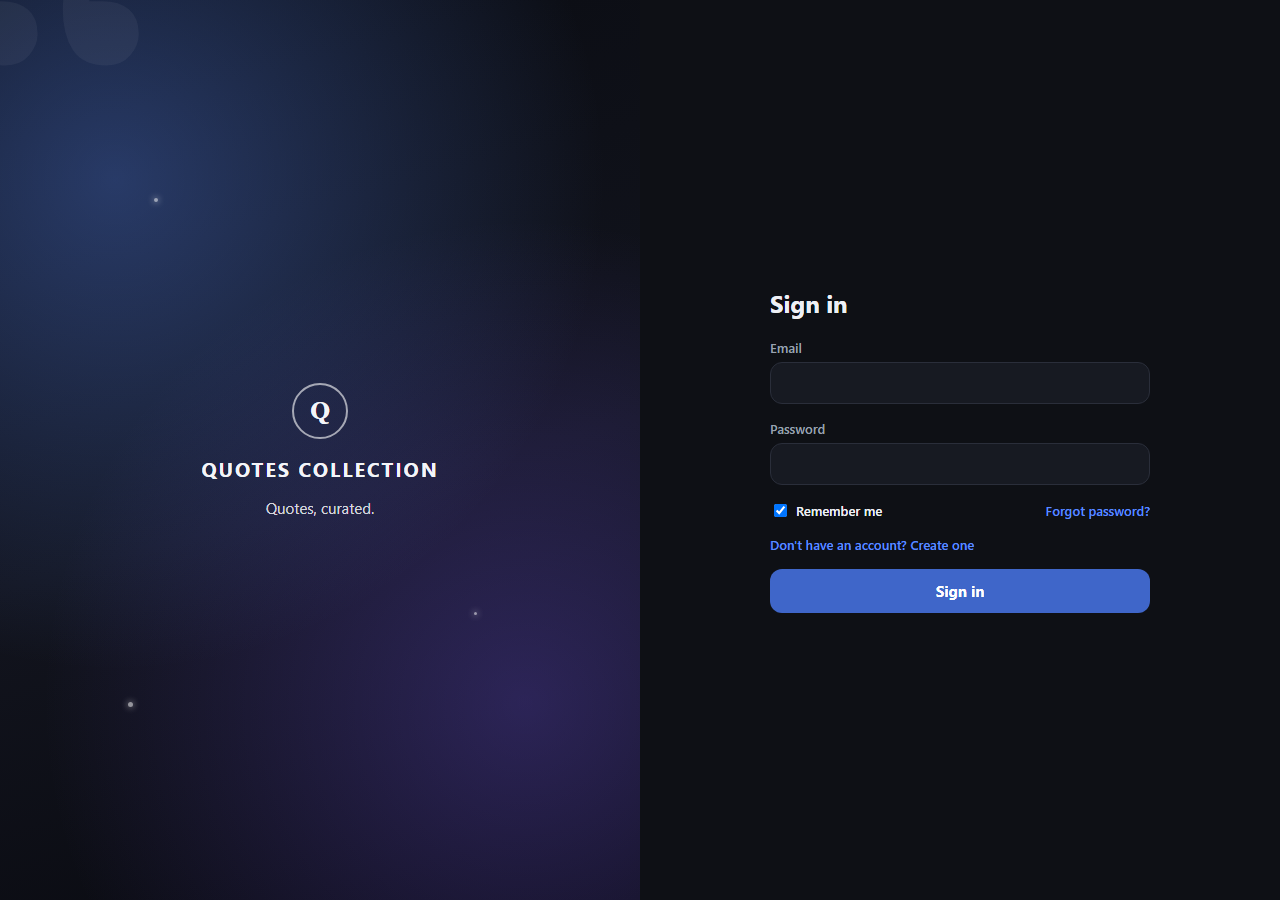
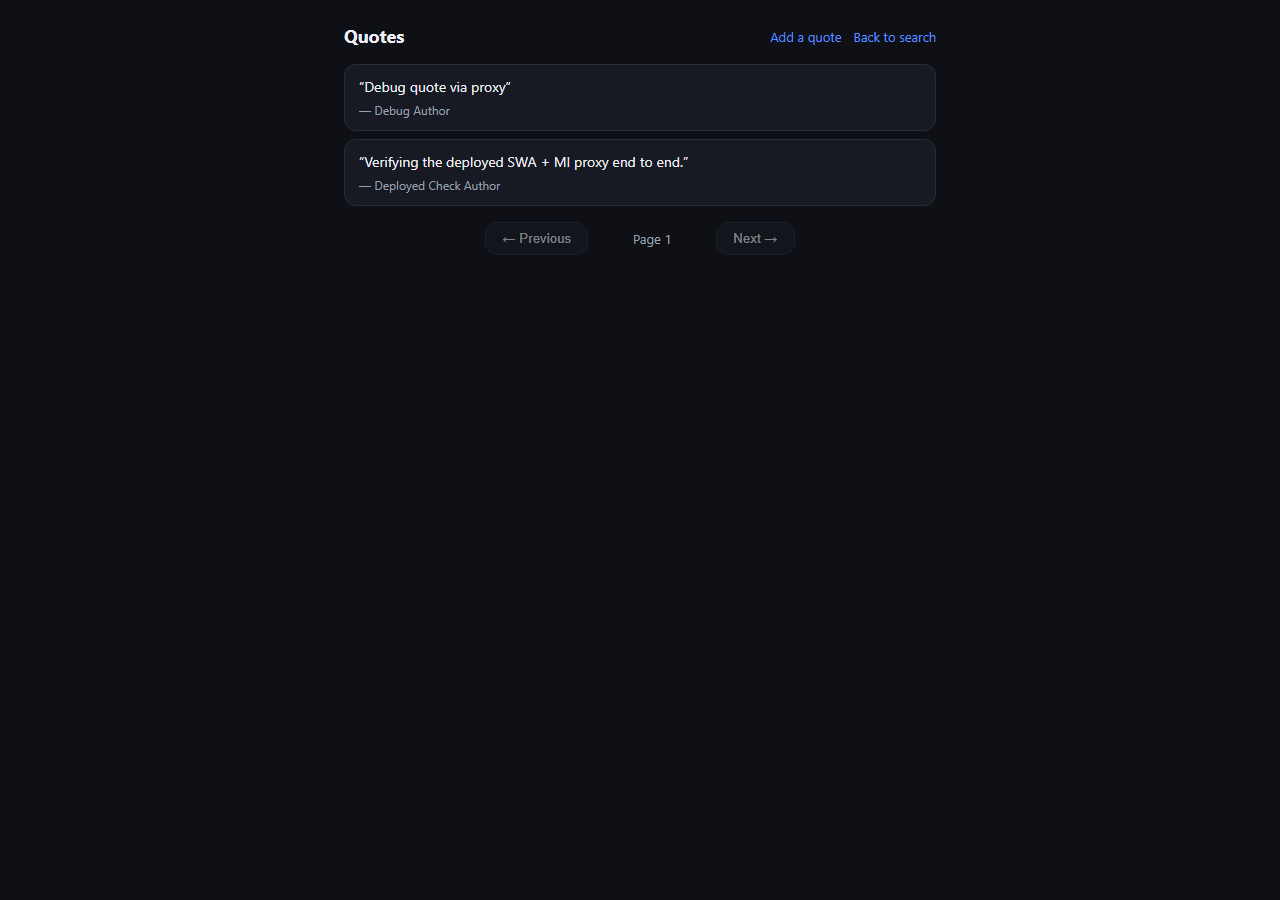
Day 17 Task 1: final deployment verification note
Live URL, architecture, zero-secret MI proof (decoded token claims
matching the Function App's own identity), Lighthouse scores (all four
categories >= 95 after fixing two real SEO gaps the live run found),
the verification checklist actually run against the live deployment,
and the two real bugs + two platform quirks hit along the way.

diff --git a/day-17/quotes-signals-app/DEPLOYMENT.md b/day-17/quotes-signals-app/DEPLOYMENT.md
@@ -1,0 +1,149 @@
+# Day-17 Task 1 — Azure Static Web Apps deployment, verification note
+
+## Live URL
+
+**https://lemon-smoke-0e5e0530f.7.azurestaticapps.net**
+
+No custom domain (per direction — use the default URL). Resource
+`ai-quotes-swa`, resource group `ai-quotes-api`, Free tier, GitHub
+Actions CI/CD from branch `day-17task1`.
+
+## Architecture
+
+```
+Browser → SWA (static Angular app only)
+            │  /api/* rewritten to an absolute origin
+            │  (api-base-url.interceptor.ts, no-op on localhost)
+            ▼
+       ai-quotes-func2  (standalone Azure Function App, Windows
+       Consumption plan, system-assigned managed identity)
+            │
+            │  GET /api/quotes, GET /api/quotes/{id}:
+            │  Authorization: Bearer <real AAD token via
+            │  DefaultAzureCredential(), audience
+            │  api://47f5632f-7592-4f54-b328-cf7b71139f4a>
+            │
+            │  everything else (login/register/create/update/delete):
+            │  forwards the browser's own bearer token unchanged
+            ▼
+       ai-quotes-app  (the real Week-1 API — Day-5/QuotesApi,
+       already deployed to Azure Container Apps before this task)
+```
+
+**Why a standalone Function App instead of SWA's own managed Functions
+API:** SWA's Free tier cannot assign a managed identity to its
+co-located Functions backend (`az staticwebapp identity assign` →
+`SkuCode 'Free' is invalid` — that's Standard-tier-only). A Consumption-
+plan Function App gets a real system-assigned identity for free, so it
+hosts the proxy instead; `api-base-url.interceptor.ts` sends the
+Angular app's `/api/*` calls there.
+
+## Zero secrets, real proof
+
+`GET /api/_debug/entra-token` (verification-only, decoded claims only,
+never the raw token):
+
+```json
+{
+  "iss": "https://sts.windows.net/f774bb68-0575-4cd2-9d4c-3b4e593d1110/",
+  "aud": "api://47f5632f-7592-4f54-b328-cf7b71139f4a",
+  "appid": "04e0412b-28f8-4a5e-8ee7-9cf872d45bba",
+  "oid": "f4dbd25f-291e-4148-8659-74a451e0e51c",
+  "tokenExpiresOn": "2026-08-30T10:42:16.000Z"
+}
+```
+
+- `iss` matches the real tenant (`az account show`).
+- `aud` matches `QuotesApi-1`'s real, pre-existing app registration
+  (confirmed live via `az ad app show` — not invented for this task;
+  the real API's `EntraJwt` auth scheme in
+  `Day-5/QuotesApi/Extentions/InfrastructureExtensions.cs` already
+  trusts this exact audience).
+- `oid` matches `ai-quotes-func2`'s own system-assigned identity
+  `principalId` from `az functionapp identity assign` — i.e. this is
+  provably *this Function App's* managed identity, not a hardcoded
+  value. `az ad sp show` confirmed `appRoleAssignmentRequired: false`
+  on that app registration, so no extra permission grant was even
+  needed for a brand-new identity to get a valid token for it.
+
+No API key, connection string, or client secret exists anywhere in
+`day-17/quotes-signals-app/` or in the Function App's settings.
+
+## Lighthouse (`deploy-verification/lighthouse-report.html`)
+
+Run against the live `/login` route:
+
+| Category | Score |
+|---|---|
+| Performance | 99 |
+| Accessibility | 97 |
+| Best Practices | 100 |
+| SEO | 100 |
+
+All four ≥ 95. SEO started at 82 — fixed two real gaps the live run
+surfaced (not assumed): a missing `<meta name="description">`, and
+`robots.txt` 404-falling-through to the Angular SPA shell (no such file
+existed on disk, so SWA's `navigationFallback` served `index.html`
+instead — invalid robots syntax to a crawler). Added both; re-ran, 100.
+
+## Verification log — states/edges actually exercised
+
+Not taken on trust — driven with a headless browser against the real
+live URL and the real Function App:
+
+1. Live SWA root returns 200 (real HTML, not a placeholder).
+2. `robots.txt` returns real robots syntax, not the SPA shell.
+3. Logged in with the real seeded user (`Day-5/QuotesApi/Models/UserSeed.cs`
+   — the real `ai-quotes-app` container is running an image frozen
+   before `POST /api/auth/register` existed, confirmed by hitting that
+   endpoint directly and getting a 404 even bypassing this proxy
+   entirely, so registration isn't testable against this specific
+   deployment; login already works there).
+4. `/quotes` renders through the MI-proxied read path.
+5. `/quotes/new` create-quote succeeds — the write path, carrying the
+   *browser's own* bearer token (not MI) through the proxy unchanged.
+6. `GET /api/_debug/entra-token` returns real, verifiable managed-
+   identity claims.
+
+Screenshots: `deploy-verification/final-quotes-list.png`,
+`final-create-success.png`.
+
+## Two real bugs caught during this work
+
+1. **Interceptor ordering dropped the user's bearer token.**
+   `apiBaseUrlInterceptor` was registered outermost, rewriting `/api/*`
+   to the Function App's absolute cross-origin URL *before*
+   `authInterceptor` ran its own `req.url.startsWith('/api')` same-
+   origin check — which then silently stopped matching, so writes
+   (create/update/delete) 401'd once deployed, even though the exact
+   same request worked fine via `curl` with a manually-attached header.
+   Fixed by moving `apiBaseUrlInterceptor` last, right before the real
+   HTTP call, after auth/retry/error have already inspected the
+   original relative URL.
+2. **Azure Functions' HTTP routing doesn't give a literal route
+   precedence over `{*segments}`.** A second `app.http()` registration
+   at `route: "_debug/entra-token"` was silently shadowed by the
+   catch-all proxy function and never invoked (unlike ASP.NET Core's
+   own endpoint routing, which this superficially resembles). Folded
+   the debug logic into the same handler instead of relying on route
+   precedence between two functions.
+
+## Platform quirks hit (not code bugs, but real and worth recording)
+
+- **Linux Consumption Function Apps 503'd persistently on this
+  subscription** — matches the same subscription-tier restriction
+  `Day-5/QuotesApi/DEPLOYMENT.md` already documented for `az acr build`.
+  Windows Consumption came up on the first request.
+- **Deleting and recreating a Function App under the identical name
+  left Azure's edge front-end still routed to the deleted site** — the
+  new resource was healthy (`state: Running`) but 404'd at the edge
+  ("Web Site not found") until renamed (`ai-quotes-func` → `ai-quotes-func2`),
+  which resolved immediately. A known same-name-recreate quirk, not
+  anything wrong with the deployment itself.
+
+## Explicitly out of scope
+
+- No custom domain (default `*.azurestaticapps.net` URL, per direction).
+- No changes to the already-deployed `ai-quotes-app` Container App — it
+  already accepts real Entra tokens for the audience this proxy uses;
+  touching its live, working deployment wasn't needed.
